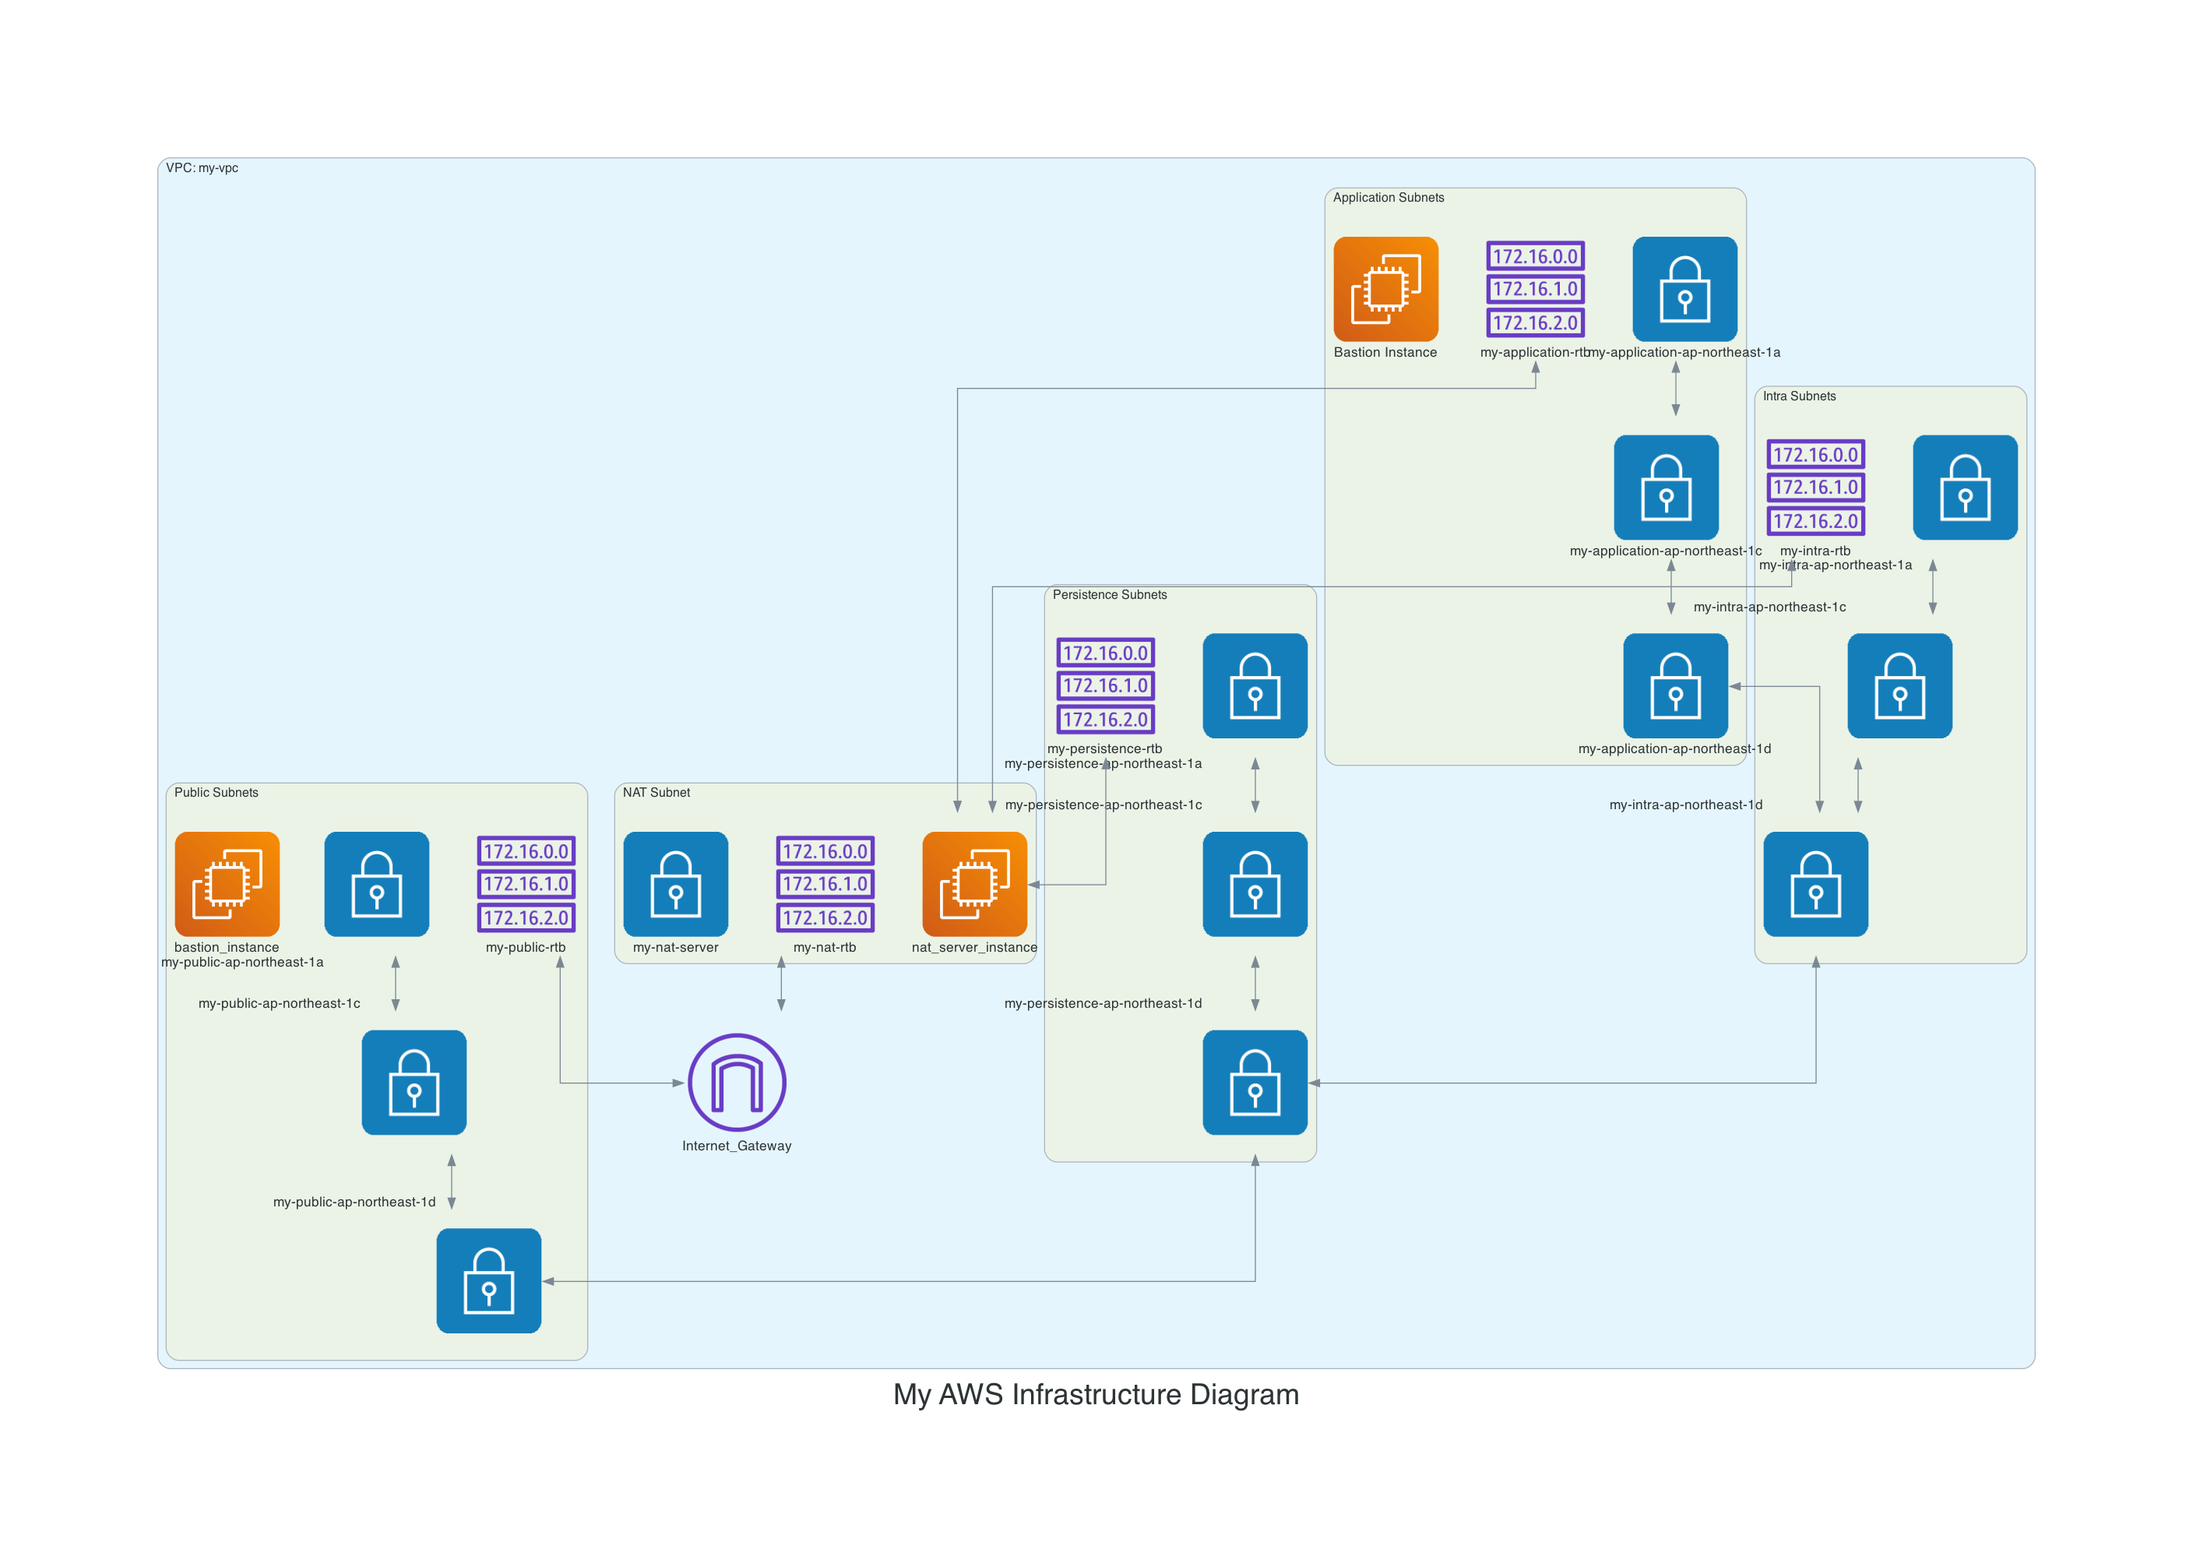
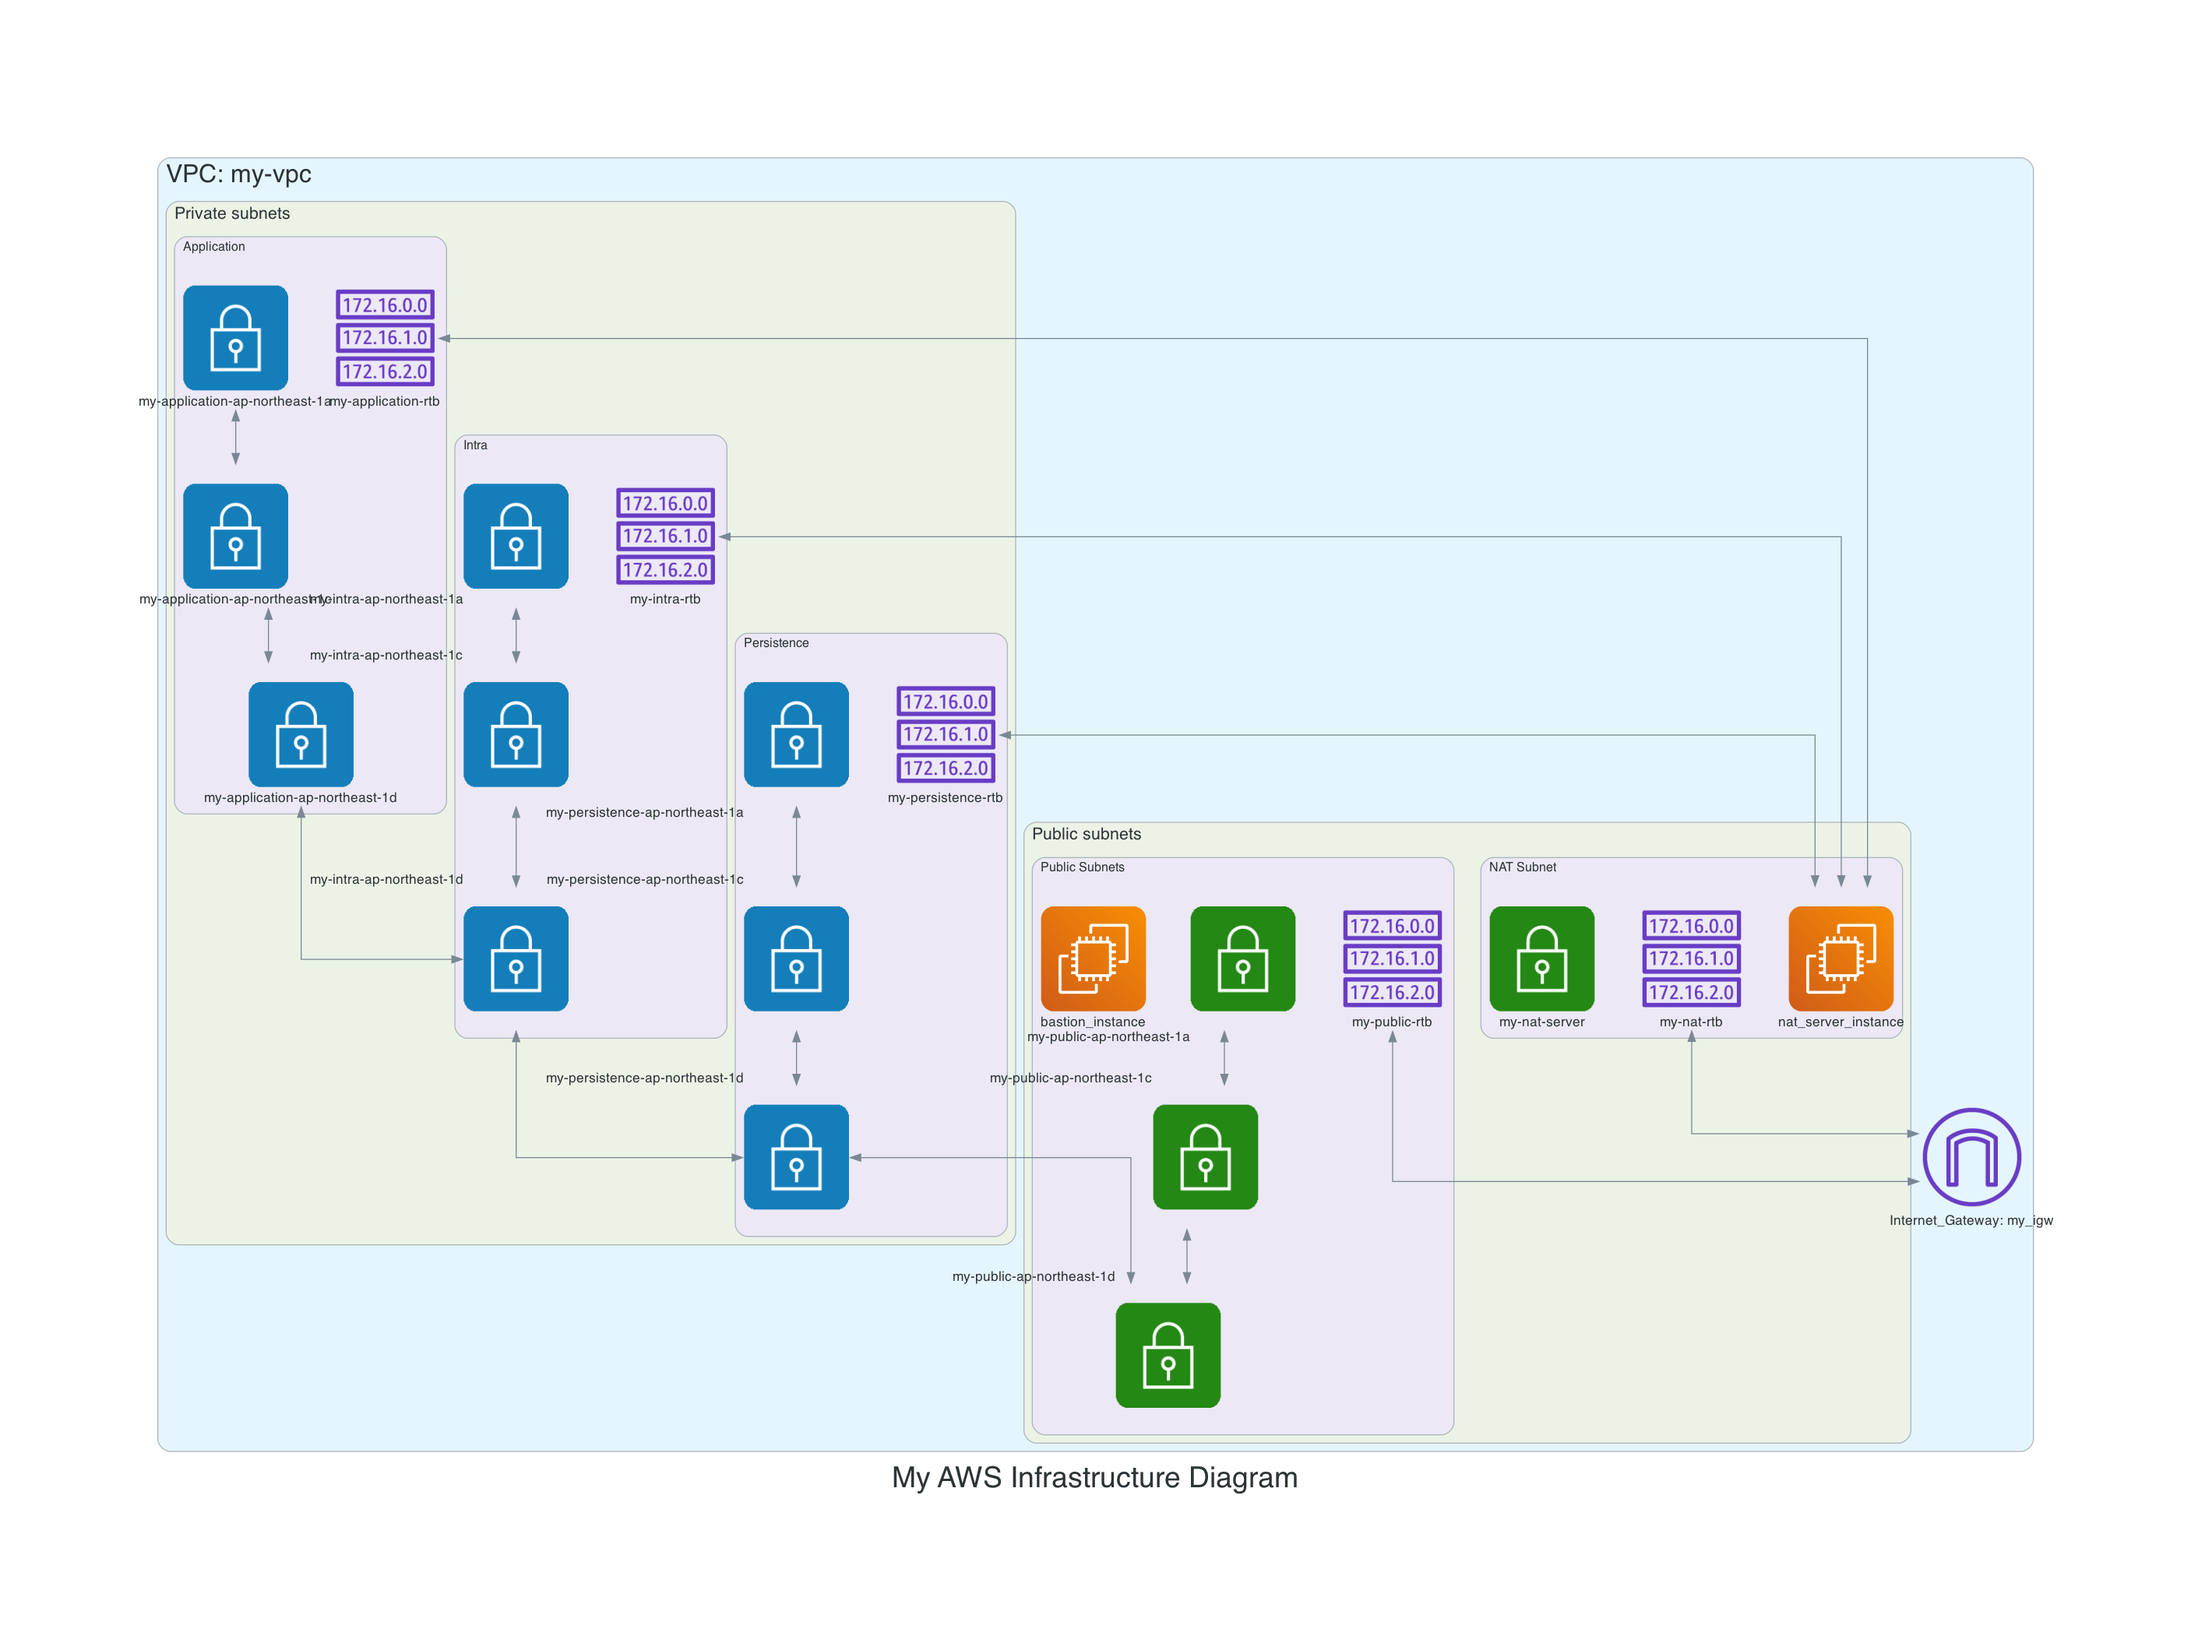
chore: rename resources in my_instances and my_route_tables modules

diff --git a/diagrams/aws_infrastructure.py b/diagrams/aws_infrastructure.py
@@ -1,7 +1,7 @@
 #!/usr/local/bin/python3
 
 from diagrams import Cluster, Diagram, Edge
-from diagrams.aws.network import VPC, PrivateSubnet, RouteTable, InternetGateway
+from diagrams.aws.network import VPC, PublicSubnet, PrivateSubnet, RouteTable, InternetGateway
 from diagrams.aws.compute import EC2
 
 graph_attr = {
@@ -11,48 +11,47 @@ graph_attr = {
     "bgcolor": "transparent"
 }
 
-major_cluster ={
+major_cluster = {
     "fontsize": "24",
     "fontname": "Helvetica",
-    "style": "rounded",
-    "bgcolor": "transparent"
+    "style": "rounded"
 }
 
-cluster ={
+minor_cluster = {
     "fontsize": "16",
     "fontname": "Helvetica",
-    "style": "rounded",
-    "bgcolor": "transparent"
+    "style": "rounded"
 }
 
 with Diagram("My AWS Infrastructure Diagram", graph_attr=graph_attr, direction="TB"):
 
-    with Cluster("VPC: my-vpc"):
+    with Cluster("VPC: my-vpc", graph_attr=major_cluster):
 
-        with Cluster("Application Subnets"):
-            application_subnets       = PrivateSubnet("my-application-ap-northeast-1a") >> Edge() << PrivateSubnet("my-application-ap-northeast-1c") >> Edge() << PrivateSubnet("my-application-ap-northeast-1d")
-            application_rtb           = RouteTable("my-application-rtb")
-            postgresql_proxy_instance = EC2("Bastion Instance")
+        with Cluster("Private subnets", graph_attr=minor_cluster):
+            with Cluster("Application"):
+                application_subnets       = PrivateSubnet("my-application-ap-northeast-1a") >> Edge() << PrivateSubnet("my-application-ap-northeast-1c") >> Edge() << PrivateSubnet("my-application-ap-northeast-1d")
+                application_rtb           = RouteTable("my-application-rtb")
 
-        with Cluster("Intra Subnets"):
-            intra_subnets = PrivateSubnet(xlabel="my-intra-ap-northeast-1a") >> Edge() << PrivateSubnet(xlabel="my-intra-ap-northeast-1c") >> Edge() << PrivateSubnet(xlabel="my-intra-ap-northeast-1d")
-            intra_rtb     = RouteTable("my-intra-rtb")
+            with Cluster("Intra"):
+                intra_subnets = PrivateSubnet(xlabel="my-intra-ap-northeast-1a") >> Edge() << PrivateSubnet(xlabel="my-intra-ap-northeast-1c") >> Edge() << PrivateSubnet(xlabel="my-intra-ap-northeast-1d")
+                intra_rtb     = RouteTable("my-intra-rtb")
 
-        with Cluster("Persistence Subnets"):
-            persistence_subnets = PrivateSubnet(xlabel="my-persistence-ap-northeast-1a") >> Edge() << PrivateSubnet(xlabel="my-persistence-ap-northeast-1c") >> Edge() << PrivateSubnet(xlabel="my-persistence-ap-northeast-1d")
-            persistence_rtb     = RouteTable("my-persistence-rtb")
+            with Cluster("Persistence"):
+                persistence_subnets = PrivateSubnet(xlabel="my-persistence-ap-northeast-1a") >> Edge() << PrivateSubnet(xlabel="my-persistence-ap-northeast-1c") >> Edge() << PrivateSubnet(xlabel="my-persistence-ap-northeast-1d")
+                persistence_rtb     = RouteTable("my-persistence-rtb")
 
-        with Cluster("Public Subnets"):
-            public_subnet    = PrivateSubnet(xlabel="my-public-ap-northeast-1a") >> Edge() << PrivateSubnet(xlabel="my-public-ap-northeast-1c") >> Edge() << PrivateSubnet(xlabel="my-public-ap-northeast-1d")
-            public_rtb       = RouteTable("my-public-rtb")
-            bastion_instance = EC2("bastion_instance")
+        with Cluster("Public subnets", graph_attr=minor_cluster, direction="TB"):
+            with Cluster("Public Subnets"):
+                public_subnet    = PublicSubnet(xlabel="my-public-ap-northeast-1a") >> Edge() << PublicSubnet(xlabel="my-public-ap-northeast-1c") >> Edge() << PublicSubnet(xlabel="my-public-ap-northeast-1d")
+                public_rtb       = RouteTable("my-public-rtb")
+                bastion_instance = EC2("bastion_instance")
 
-        with Cluster("NAT Subnet"):
-            nat_subnet = PrivateSubnet("my-nat-server")
-            nat_server_instance = EC2("nat_server_instance")
-            nat_server_rtb      = RouteTable("my-nat-rtb")
+            with Cluster("NAT Subnet"):
+                nat_subnet = PublicSubnet("my-nat-server")
+                nat_server_instance = EC2("nat_server_instance")
+                nat_server_rtb      = RouteTable("my-nat-rtb")
 
-        internet_gw = InternetGateway("Internet_Gateway")
+        internet_gw = InternetGateway("Internet_Gateway: my_igw")
 
         application_subnets >> Edge() << intra_subnets >> Edge() << persistence_subnets >> Edge() << public_subnet
 
